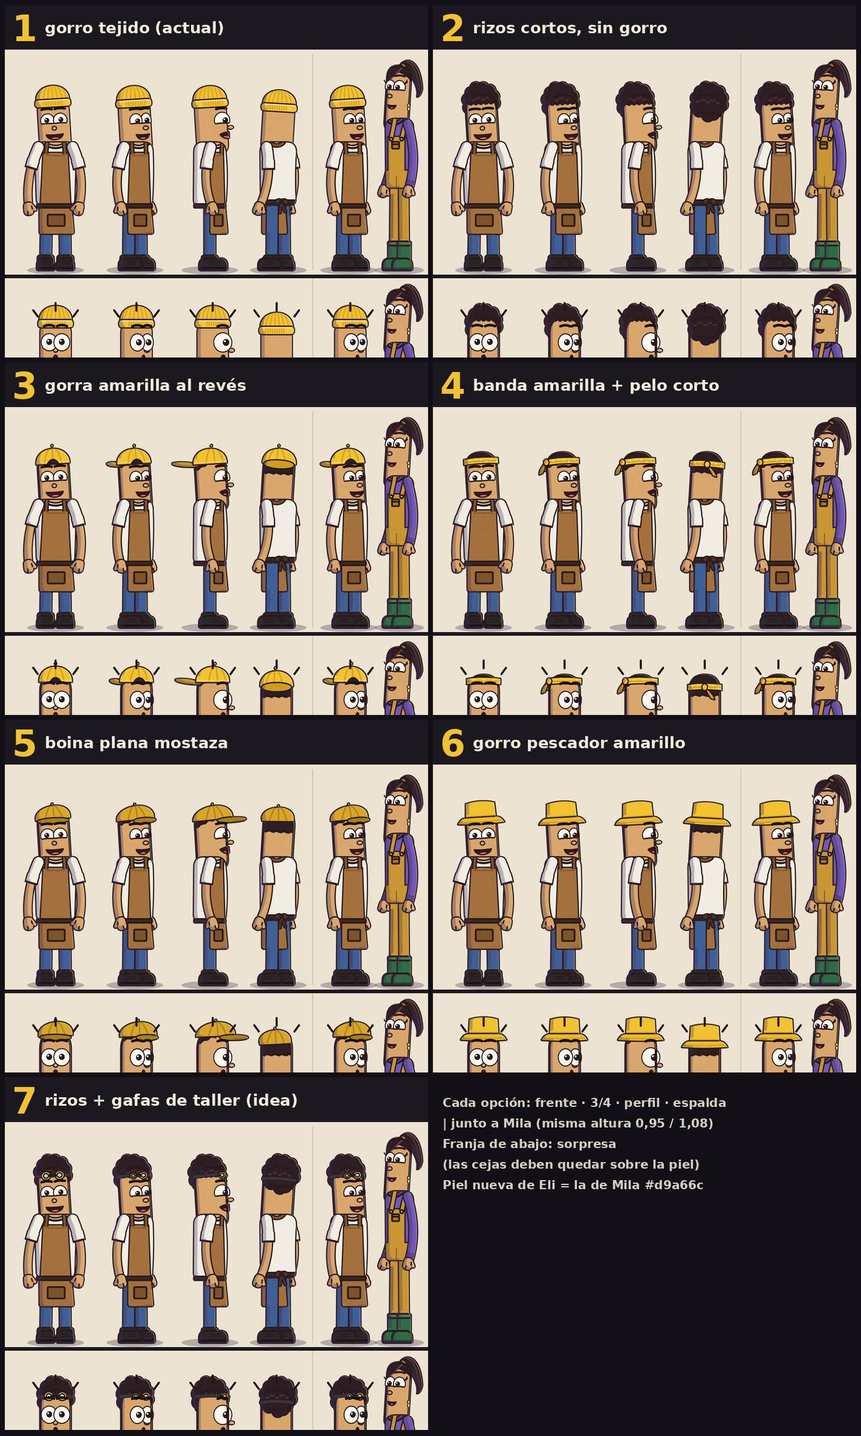
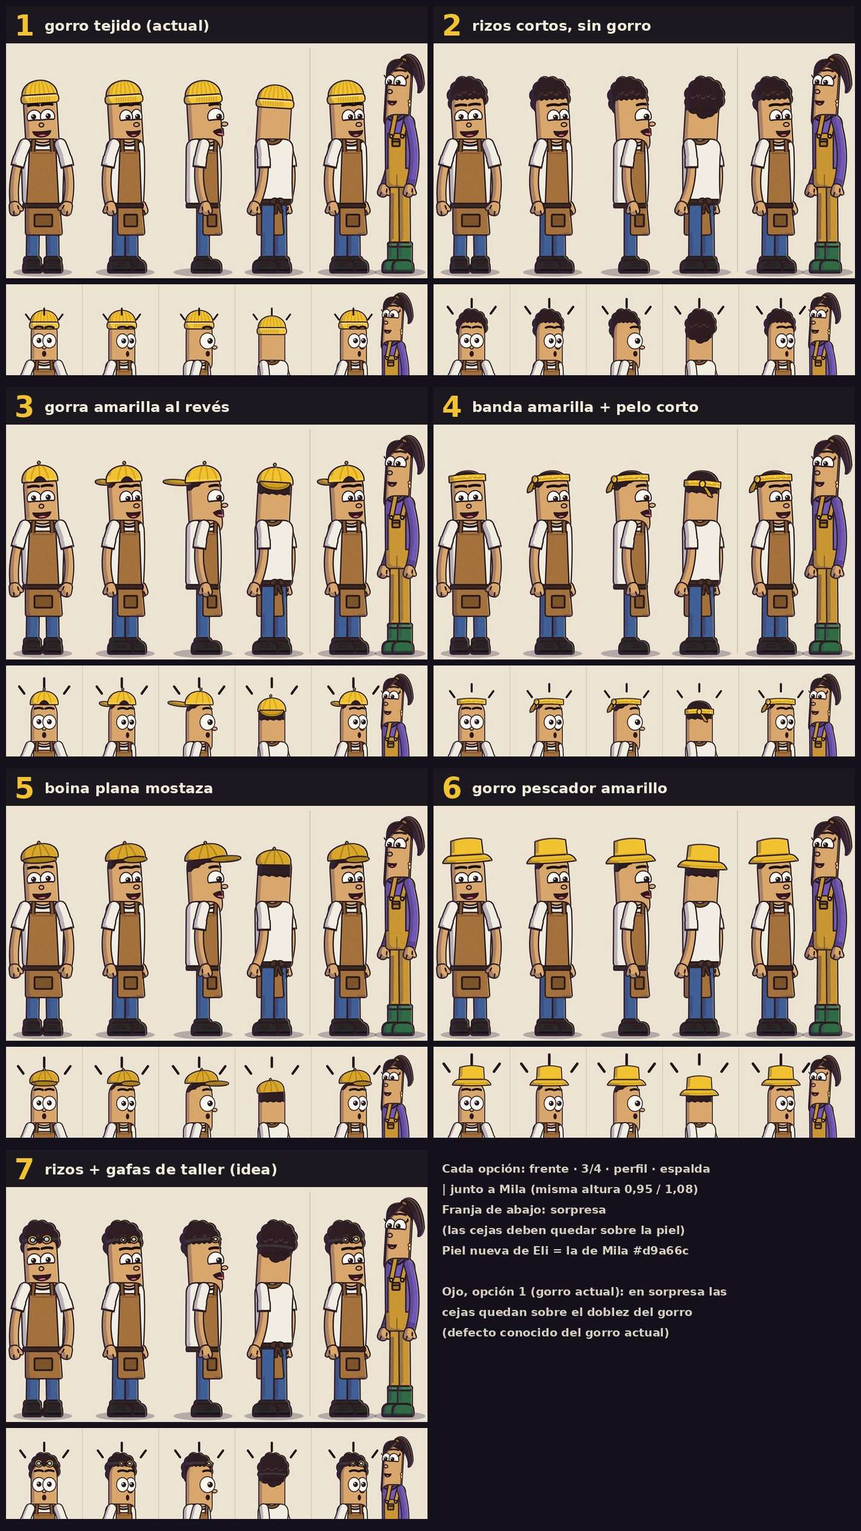
art: Guardian gate on Eli headwear options — brows clear of every brim/band/lens, no outline through the eyes, ticks outside the hats, sheet rebuilt
Options 2-7 (cast_alts.js ELI_HATS layers only): lift from the lowest ink edge, no head re-stroke over the face,
hairline clear of the brows, extraK per option, backwards-cap visor from behind, rigid goggles on a hit.
Lab: ?solo= / ?probe= / ?nohat=. New: build_eli_hat_sheet.sh, brow_clear_check.py (2-7 PASS; 1 = current beanie, known FAIL).

Claude-Session: https://claude.ai/code/session_01Xa8YPWmmU68CUYj3YXfuu9

diff --git a/newchannel/art/lib/cast_alts.js b/newchannel/art/lib/cast_alts.js
@@ -151,34 +151,41 @@
   // head layers { hat, hairBack, hairFront } in head units, defined for every view through H.fs / H.faceDir / H.back, with
   // the beanie's rules: a bob on t, a squash on H.hatHit, and a lift so the brows always sit on skin (never on a brim).
   const ELI_HAIR = '#2e1d22', CAP_Y = '#f2c230', CAP_D = '#cf9d1f', NEWS = '#d9a62a', NEWS_D = '#a8801c';
-  const hatLift = (H, bandBottom, max = 0.06) => (H.browTop != null ? K.clamp(bandBottom + 0.005 - H.browTop, 0, max) : 0);
-  const hatFrame = (c, H, pivotY, lift) => { const bob = Math.sin(H.t * 3.1 + 0.4) * 0.0022 - lift, sq = 1 - H.hatHit * 0.22;
-    c.save(); c.translate(0, pivotY + bob + H.hatHit * 0.008); c.scale(1 + H.hatHit * 0.08, sq); c.translate(0, -pivotY); };
+  // Guardian 2026-10-29: the lift is measured from the LOWEST ink edge of the headwear (brim / lens / band, not the crown
+  // seam) plus its stroke, a clear skin gap and the hit push-down, so the brows never touch a brim in surprise / anger.
+  const hatLift = (H, bottom, max = 0.1) => (H.browTop != null ? K.clamp(bottom + H.lw * 1.5 + 0.008 + H.hatHit * 0.008 - H.browTop, 0, max) : 0);
+  // no re-ink of the head outline over the hair (Guardian 2026-10-29): the hair is clipped to the head, so the outer half
+  // of the kit's outline stays; a full re-stroke cut through the googly eyes in 3/4 / profile and left a step at the brow
+  const hatFrame = (c, H, pivotY, lift, give = 1) => { const bob = Math.sin(H.t * 3.1 + 0.4) * 0.0022 - lift, sq = 1 - H.hatHit * 0.22 * give;
+    c.save(); c.translate(0, pivotY + bob + H.hatHit * 0.008); c.scale(1 + H.hatHit * 0.08 * give, sq); c.translate(0, -pivotY); };
   // short cropped hair (under caps / band): a cap of hair clipped to the head, hairline lower toward the back of the head
   function shortHair(c, H, line = 0.052) {
     const hw = H.hw, hh = H.hh, back = H.back ? 1 : 0;
     if (H.browTop != null && !back) line -= Math.max(0, (-hh + line) - (H.browTop - 0.012));   // the hairline always stops above the brows (surprise lifts them high)
     c.save(); h.headPath(c, C.SPECS.eli1.head); c.clip(); c.fillStyle = ELI_HAIR; c.beginPath();
-    const yAt = x => -hh + line + (back ? 0.05 : 0.035 * K.clamp(-H.faceDir * x / hw) * H.fs) + 0.004 * Math.sin(x * 160);
+    // Guardian 2026-10-29 (brow_clear_check): over the brows' span the hairline (wiggle + ink included) keeps a clear skin gap
+    const bs = !back && H.browTop != null && H._brows ? H._brows : null, bx0 = bs ? Math.min(...bs.map(g => Math.min(g[0], g[4]))) - 0.02 : 0, bx1 = bs ? Math.max(...bs.map(g => Math.max(g[0], g[4]))) + 0.02 : 0;
+    const yRaw = x => -hh + line + (back ? 0.05 : 0.035 * K.clamp(-H.faceDir * x / hw) * H.fs) + 0.004 * Math.sin(x * 160);
+    const yAt = x => (bs && x > bx0 && x < bx1 ? Math.min(yRaw(x), H.browTop - 0.014 - H.lw * 0.8) : yRaw(x));
     c.moveTo(-hw * 1.3, -hh - 0.1); c.lineTo(hw * 1.3, -hh - 0.1); for (let i = 0; i <= 16; i++) { const x = hw * 1.3 - i / 16 * hw * 2.6; c.lineTo(x, yAt(x)); } c.closePath(); c.fill();
     c.strokeStyle = INK; c.lineWidth = H.lw * 1.6; c.beginPath(); for (let i = 0; i <= 16; i++) { const x = -hw * 1.3 + i / 16 * hw * 2.6; i ? c.lineTo(x, yAt(x)) : c.moveTo(x, yAt(x)); } c.stroke();
-    c.restore(); outlineHead(c, H, C.SPECS.eli1);
+    c.restore();
   }
   // 2 · short curls: a low lobed crown of curls (no hat), the volume stays inside his 0.95 height budget
   function curlsBack(c, H) { const b = Math.sin(H.t * 3.0) * 0.0018 - H.hatHit * 0.006, cx = backX(H, 0.18);
     c.save(); c.translate(0, b); c.scale(1 + H.hatHit * 0.06, 1 - H.hatHit * 0.15);
     lobedShape(c, cx, -H.hh * 0.78, H.hw * 1.22, 12, 31, ELI_HAIR, H.lw, 0.3); c.restore(); }
-  function curlsFront(c, H) { const hw = H.hw, hh = H.hh, lift = hatLift(H, -hh + 0.072, 0.06);
+  function curlsFront(c, H) { const hw = H.hw, hh = H.hh, lift = hatLift(H, -hh + 0.064, 0.06);
     c.save(); h.headPath(c, C.SPECS.eli1.head); c.clip(); c.translate(0, -lift);
     c.fillStyle = ELI_HAIR; c.strokeStyle = INK; c.lineWidth = H.lw * 1.6; const off = H.faceDir * H.fs * hw * 0.25;
     c.beginPath(); c.moveTo(-hw * 1.3, -hh - 0.1); c.lineTo(hw * 1.3, -hh - 0.1); c.lineTo(hw * 1.3, -hh + 0.05);
     for (let i = 0; i <= 7; i++) { const x = hw * 1.15 - i / 7 * hw * 2.3 + off * 0.3, y = -hh + 0.05 + (H.back ? 0.04 : 0); c.quadraticCurveTo(x + hw * 0.16, y + 0.022, x, y); }
     c.lineTo(-hw * 1.3, -hh - 0.1); c.closePath(); c.fill(); c.stroke();
     c.strokeStyle = K.rgba('#5a3a3a', 0.8); c.lineWidth = H.lw; for (let i = 0; i < 6; i++) { const x = -hw * 0.8 + i * hw * 0.32 + off, y = -hh + 0.022 + (i % 2) * 0.01; c.beginPath(); c.arc(x, y, 0.009, 0.2, 2.6); c.stroke(); }
-    c.restore(); outlineHead(c, H, C.SPECS.eli1); }
+    c.restore(); }
   // 3 · backwards cap: a smooth six-panel crown, the snap opening over the forehead, the brim out the back
   function capBack(c, H) {
-    const hw = H.hw, hh = H.hh, band = -hh + 0.05, lift = hatLift(H, band);
+    const hw = H.hw, hh = H.hh, band = -hh + 0.05, lift = hatLift(H, band + 0.006);
     shortHairUnder(c, H);
     hatFrame(c, H, band, lift);
     const fs = H.fs, bk = -H.faceDir, crown = () => { c.beginPath(); c.moveTo(-hw * 1.08, band + 0.006); c.bezierCurveTo(-hw * 1.12, -hh - 0.045, hw * 1.12, -hh - 0.045, hw * 1.08, band + 0.006); c.closePath(); };
@@ -188,14 +195,15 @@
     for (const k of [-0.55, 0, 0.55]) { c.beginPath(); c.moveTo(k * hw + off, band); c.quadraticCurveTo(k * hw * 0.8 + off, -hh - 0.01, off * 0.5, -hh - 0.034); c.stroke(); }
     c.fillStyle = '#fff3c4'; c.globalAlpha = 0.45; c.fillRect(-hw * 1.2, band - 0.004, hw * 2.4, 0.004); c.restore();
     if (!H.back && fs < 0.7) { const ox = H.faceDir * fs * hw * 0.35; h.shape(c, () => { c.beginPath(); c.moveTo(ox - 0.026, band + 0.006); c.quadraticCurveTo(ox, band - 0.03, ox + 0.026, band + 0.006); c.closePath(); }, ELI_HAIR, H.lw); }
-    if (H.back) h.shape(c, () => { c.beginPath(); c.ellipse(0, band + 0.01, hw * 0.95, 0.02, 0, 0, K.TAU); }, CAP_D, H.lw);
+    if (H.back) { h.shape(c, () => { c.beginPath(); c.moveTo(-hw * 0.92, band + 0.004); c.ellipse(0, band + 0.004, hw * 0.92, 0.034, 0, Math.PI, 0, true); c.closePath(); }, CAP_D, H.lw);   // the visor points at us: it hangs over the nape
+      c.strokeStyle = K.rgba('#8a6512', 0.8); c.lineWidth = H.lw; c.beginPath(); c.ellipse(0, band + 0.004, hw * 0.8, 0.026, 0, 0.15, Math.PI - 0.15); c.stroke(); }
     c.fillStyle = CAP_D; c.strokeStyle = INK; c.lineWidth = H.lw; c.beginPath(); c.arc(off * 0.5, -hh - 0.036, 0.007, 0, K.TAU); c.fill(); c.stroke();
     c.restore();
   }
   function shortHairUnder(c, H) { shortHair(c, H, 0.058); }
   // 4 · yellow headband (bandana rolled into a band) over short hair, knot + tails at the back of the head
   function bandana(c, H) {
-    const hw = H.hw, hh = H.hh, y0 = -hh + 0.045, bh = 0.03, lift = hatLift(H, y0 + bh, 0.03);
+    const hw = H.hw, hh = H.hh, y0 = -hh + 0.045, bh = 0.03, lift = hatLift(H, y0 + bh);
     hatFrame(c, H, y0 + bh, lift);
     const bandP = () => { c.beginPath(); c.moveTo(-hw * 1.1, y0 + 0.004); c.quadraticCurveTo(0, y0 - 0.008, hw * 1.1, y0 + 0.004); c.lineTo(hw * 1.1, y0 + bh); c.quadraticCurveTo(0, y0 + bh - 0.01, -hw * 1.1, y0 + bh); c.closePath(); };
     const kx = H.back ? 0 : -H.faceDir * hw * 1.02, show = H.back || H.fs > 0.2;
@@ -210,7 +218,7 @@
   }
   // 5 · flat newsboy cap (mustard-yellow): a soft round crown pulled forward, short stiff brim over the face side
   function newsboy(c, H) {
-    const hw = H.hw, hh = H.hh, band = -hh + 0.056, lift = hatLift(H, band + 0.012);
+    const hw = H.hw, hh = H.hh, band = -hh + 0.056, lift = hatLift(H, band + 0.02);
     hatFrame(c, H, band, lift);
     const fs = H.fs, fd = H.faceDir, cx = fd * fs * hw * 0.25;
     const crown = () => { c.beginPath(); c.moveTo(-hw * 1.1, band + 0.004); c.bezierCurveTo(-hw * 1.35 + cx, -hh - 0.02, hw * 1.25 + cx, -hh - 0.05, hw * 1.12 + cx * 1.4, band - 0.004); c.closePath(); };
@@ -224,7 +232,7 @@
   }
   // 6 · bucket hat: a short crown and a soft brim sloping down all round (narrow in front so it never reaches the brows)
   function bucket(c, H) {
-    const hw = H.hw, hh = H.hh, band = -hh + 0.05, lift = hatLift(H, band + 0.014, 0.04);
+    const hw = H.hw, hh = H.hh, band = -hh + 0.05, lift = hatLift(H, band + 0.027);
     hatFrame(c, H, band, lift);
     const brim = () => { c.beginPath(); c.moveTo(-hw * 1.5, band + 0.022); c.quadraticCurveTo(-hw * 1.3, band - 0.006, -hw * 1.0, band - 0.006); c.lineTo(hw * 1.0, band - 0.006); c.quadraticCurveTo(hw * 1.3, band - 0.006, hw * 1.5, band + 0.022); c.quadraticCurveTo(0, band + 0.03, -hw * 1.5, band + 0.022); c.closePath(); };
     const crown = () => { c.beginPath(); c.moveTo(-hw * 0.98, band); c.lineTo(-hw * 0.92, -hh - 0.03); c.quadraticCurveTo(0, -hh - 0.05, hw * 0.92, -hh - 0.03); c.lineTo(hw * 0.98, band); c.closePath(); };
@@ -236,8 +244,8 @@
   }
   // 7 · (Claude's idea, workshop) short curls + yellow-rimmed workshop goggles pushed up on the forehead
   function goggles(c, H) {
-    const hw = H.hw, hh = H.hh, y = -hh + 0.06, lift = hatLift(H, y + 0.018, 0.03);
-    hatFrame(c, H, y, lift);
+    const hw = H.hw, hh = H.hh, y = -hh + 0.06, lift = hatLift(H, y + 0.02);
+    hatFrame(c, H, y, lift, 0.15);   // rigid goggles: they bounce on a hit, they do not squash into slits
     c.strokeStyle = INK; c.lineWidth = H.lw * 3.2; c.beginPath(); c.moveTo(-hw * 1.05, y + 0.002); c.quadraticCurveTo(0, y - 0.01, hw * 1.05, y + 0.002); c.stroke();
     c.strokeStyle = '#3a3436'; c.lineWidth = H.lw * 2.2; c.stroke();
     if (!H.back) { const fs = H.fs, fd = H.faceDir, sep = 0.036 * (1 - 0.45 * fs), cx = fd * fs * hw * 0.55;
@@ -249,14 +257,15 @@
       c.strokeStyle = INK; c.lineWidth = H.lw * 2.4; c.beginPath(); c.moveTo(cx - sep + 0.02, y); c.lineTo(cx + sep - 0.02, y); c.stroke(); }
     c.restore();
   }
+  // extraK (Guardian 2026-10-29): the surprise ticks / anger mark sit outside the headwear (they used to cross the crown)
   C.ELI_HATS = {
     1: { name: 'gorro tejido (actual)', layers: () => ({ hat: C.SPECS.eli1.hat }), cost: 'existe' },
-    2: { name: 'rizos cortos, sin gorro', layers: () => ({ hat: curlsFront, hairBack: curlsBack }), cost: 'nuevo (reutiliza el pelo lobulado de Alt 2)' },
-    3: { name: 'gorra al revés', layers: () => ({ hat: capBack }), cost: 'nuevo' },
-    4: { name: 'banda amarilla + pelo corto', layers: () => ({ hat: (c, H) => { shortHair(c, H); bandana(c, H); }, backHair: (c, H) => shortHair(c, H) }), cost: 'nuevo' },
-    5: { name: 'boina plana (newsboy) mostaza', layers: () => ({ hat: (c, H) => { shortHair(c, H, 0.062); newsboy(c, H); }, backHair: (c, H) => shortHair(c, H, 0.062) }), cost: 'nuevo' },
-    6: { name: 'gorro pescador amarillo', layers: () => ({ hat: (c, H) => { shortHair(c, H, 0.062); bucket(c, H); }, backHair: (c, H) => shortHair(c, H, 0.062) }), cost: 'nuevo' },
-    7: { name: 'rizos + gafas de taller', layers: () => ({ hat: (c, H) => { curlsFront(c, H); goggles(c, H); }, hairBack: curlsBack }), cost: 'nuevo (idea de Claude)' },
+    2: { name: 'rizos cortos, sin gorro', layers: () => ({ extraK: 1.3, hat: curlsFront, hairBack: curlsBack }), cost: 'nuevo (reutiliza el pelo lobulado de Alt 2)' },
+    3: { name: 'gorra al revés', layers: () => ({ extraK: 1.36, hat: capBack }), cost: 'nuevo' },
+    4: { name: 'banda amarilla + pelo corto', layers: () => ({ extraK: 1.18, hat: (c, H) => { shortHair(c, H); bandana(c, H); }, backHair: (c, H) => shortHair(c, H) }), cost: 'nuevo' },
+    5: { name: 'boina plana (newsboy) mostaza', layers: () => ({ extraK: 1.42, hat: (c, H) => { shortHair(c, H, 0.062); newsboy(c, H); }, backHair: (c, H) => shortHair(c, H, 0.062) }), cost: 'nuevo' },
+    6: { name: 'gorro pescador amarillo', layers: () => ({ extraK: 1.52, hat: (c, H) => { shortHair(c, H, 0.062); bucket(c, H); }, backHair: (c, H) => shortHair(c, H, 0.062) }), cost: 'nuevo' },
+    7: { name: 'rizos + gafas de taller', layers: () => ({ extraK: 1.3, hat: (c, H) => { curlsFront(c, H); goggles(c, H); }, hairBack: curlsBack }), cost: 'nuevo (idea de Claude)' },
   };
   // drop earrings: a stud on the head edge and a small gold drop hanging OUTSIDE the silhouette (reads as jewellery)
   function drops(color = GOLD, y = 0.04) {

diff --git a/newchannel/art/scenes/eli_hat_lab.js b/newchannel/art/scenes/eli_hat_lab.js
@@ -2,23 +2,31 @@
    beanie until the Producer picks. ?scene=eli_hat_lab&n=1..7[&expr=surprised&hit=1]: front, 3/4, profile, back, and a cell beside Mila. */
 (function (root) {
   const K = root.K, C = K.cast;
-  function variant(n) {
-    const id = 'eliHat' + n; if (C.SPECS[id]) return id; const b = C.SPECS.eli1, L = C.ELI_HATS[n].layers();
-    C.define(id, Object.assign({}, b, { hat: L.hat || null, hairBack: L.hairBack || null, hairFront: L.hairFront || null, backHair: L.backHair || null }));
+  // QC (Guardian 2026-10-29, brow_clear_check.py): &probe=1 paints the brows pure red, &nohat=1 drops every head layer
+  function variant(n, probe, nohat) {
+    const id = 'eliHat' + n + (probe ? 'p' : '') + (nohat ? 'x' : ''); if (C.SPECS[id]) return id; const b = C.SPECS.eli1, L = nohat ? {} : C.ELI_HATS[n].layers();
+    C.define(id, Object.assign({}, b, { hat: L.hat || null, hairBack: L.hairBack || null, hairFront: L.hairFront || null, backHair: L.backHair || null, extraK: L.extraK || b.extraK },
+      probe ? { face: Object.assign({}, b.face, { browColor: '#ff0000' }) } : {}));
     return id;
   }
   K.scene('eli_hat_lab', {
-    setup(ctx, o) { this.n = +(o.n || 1); this.id = variant(this.n); this.expr = o.expr || 'happy'; this.hit = +(o.hit || 0); },
+    setup(ctx, o) { this.n = +(o.n || 1); this.id = variant(this.n, +(o.probe || 0), +(o.nohat || 0)); this.expr = o.expr || 'happy'; this.hit = +(o.hit || 0); this.solo = o.solo != null ? +o.solo : null; },
     draw(ctx, t) {
       ctx.fillStyle = '#ece3d3'; ctx.fillRect(0, 0, K.W, K.H);
       const L = Object.assign({}, C.LIGHT.golden, { rim: '#fff4dc', rimA: 0.35 }), id = this.id, u = 860, o = { pose: 'stand', expr: this.expr, t: 0.6, light: L, shadow: 0.3, blink: 0, hatHit: this.hit };
-      C.draw(ctx, id, 230, 1040, u, Object.assign({}, o, { view: 'front' }));
-      C.draw(ctx, id, 590, 1040, u, Object.assign({}, o, { view: 'q', dir: 1, look: [0.6, 0] }));
-      C.draw(ctx, id, 930, 1040, u, Object.assign({}, o, { view: 'side', dir: 1, look: [1, 0] }));
-      C.draw(ctx, id, 1240, 1040, u, Object.assign({}, o, { view: 'backq', dir: -1 }));
+      // views: front, 3/4, profile, back 3/4, | beside Mila. ?solo=0..4 draws one view alone at the centre (the sheet's surprise
+      // strip uses it: the bigger surprise ticks of the tall hats would otherwise cross the neighbouring view)
+      const V = [[230, { view: 'front' }], [590, { view: 'q', dir: 1, look: [0.6, 0] }], [930, { view: 'side', dir: 1, look: [1, 0] }], [1240, { view: 'backq', dir: -1 }]];
+      const mila = (x) => C.draw(ctx, 'mila1', x, 1040, u, { view: 'q', dir: -1, pose: 'stand', expr: 'happy', t: 0.9, light: L, shadow: 0.3, blink: 0, look: [-0.7, -0.1] });
+      if (this.solo != null) {
+        if (this.solo < 4) C.draw(ctx, id, 960, 1040, u, Object.assign({}, o, V[this.solo][1]));
+        else { C.draw(ctx, id, 845, 1040, u, Object.assign({}, o, { view: 'q', dir: 1, look: [0.7, -0.1] })); mila(1075); }
+        return;
+      }
+      for (const [x, v] of V) C.draw(ctx, id, x, 1040, u, Object.assign({}, o, v));
       ctx.fillStyle = 'rgba(60,40,40,0.18)'; ctx.fillRect(1395, 60, 4, 980);
       C.draw(ctx, id, 1560, 1040, u, Object.assign({}, o, { view: 'q', dir: 1, look: [0.7, -0.1] }));
-      C.draw(ctx, 'mila1', 1790, 1040, u, { view: 'q', dir: -1, pose: 'stand', expr: 'happy', t: 0.9, light: L, shadow: 0.3, blink: 0, look: [-0.7, -0.1] });
+      mila(1790);
     },
     post() { return { grain: 0, vignette: 0, bloom: 0 }; },
   });

diff --git a/newchannel/art/render/brow_clear_check.py b/newchannel/art/render/brow_clear_check.py
@@ -1,0 +1,59 @@
+#!/usr/bin/env python3
+"""brow_clear_check.py OUTDIR [options...] -- Guardian check (2026-10-29): Eli's brows never touch the headwear.
+
+For each headwear option (eli_hat_lab n=1..7), expression (happy / surprised / furious), hat hit (0 / 1) and view
+(front, 3/4, profile, beside Mila), renders the lab twice with the brows painted pure red (&probe=1): once with the
+headwear and once without (&nohat=1). The ring 2-5 px around the red brows must show the same skin in both renders (ink outlines and rim light, which follow the silhouette, are ignored): any
+pixel the headwear (hat, brim, band, lens, hair) changes inside that ring = the brows touch it (FAIL).
+Writes OUTDIR/brow_clear.json and prints one line per option. Exit 1 if any option fails (except the listed --ref ones).
+"""
+import json, os, subprocess, sys
+from concurrent.futures import ThreadPoolExecutor
+import numpy as np
+from PIL import Image, ImageFilter
+
+HERE = os.path.dirname(os.path.abspath(__file__))
+out = sys.argv[1]; os.makedirs(out, exist_ok=True)
+opts = [int(a) for a in sys.argv[2:] if a.isdigit()] or list(range(1, 8))
+EXPRS, HITS, VIEWS = ["happy", "surprised", "furious"], [0, 1], [0, 1, 2, 4]
+
+
+def render(q, png):
+    if not os.path.exists(png):
+        subprocess.run(["node", os.path.join(HERE, "render.mjs"), "--scene", "eli_hat_lab", "--still", "1", "--png", png, "--query", q],
+                       check=True, stdout=subprocess.DEVNULL)
+    return png
+
+
+jobs = []
+for n in opts:
+    for e in EXPRS:
+        for h in HITS:
+            for v in VIEWS:
+                base = f"n={n}&expr={e}&hit={h}&solo={v}&probe=1"
+                jobs.append((n, e, h, v, (base, f"{out}/n{n}_{e}_h{h}_v{v}.png"), (base + "&nohat=1", f"{out}/n{n}_{e}_h{h}_v{v}_x.png")))
+with ThreadPoolExecutor(8) as ex:
+    list(ex.map(lambda j: (render(*j[4]), render(*j[5])), jobs))
+
+res, worst = {}, {}
+for n, e, h, v, (_, pa), (_, pb) in jobs:
+    a = np.asarray(Image.open(pa).convert("RGB")).astype(int); b = np.asarray(Image.open(pb).convert("RGB")).astype(int)
+    if v == 4: a, b = a[:, :960], b[:, :960]                       # beside Mila: Eli only
+    red = (b[..., 0] > 170) & (b[..., 1] < 90) & (b[..., 2] < 90)
+    ys, xs = np.where(red); y0, x0 = max(0, ys.min() - 20), max(0, xs.min() - 20)   # work on the brow box only
+    a, b, red = a[y0:ys.max() + 20, x0:xs.max() + 20], b[y0:ys.max() + 20, x0:xs.max() + 20], red[y0:ys.max() + 20, x0:xs.max() + 20]
+    m = Image.fromarray((red * 255).astype(np.uint8))
+    outer = np.asarray(m.filter(ImageFilter.MaxFilter(11))) > 0; inner = np.asarray(m.filter(ImageFilter.MaxFilter(5))) > 0
+    ring = outer & ~inner
+    skin = (b[..., 0] > 140) & (b[..., 0] - b[..., 2] > 40) & ~red     # forehead skin in the no-hat render
+    skin = np.asarray(Image.fromarray((skin * 255).astype(np.uint8)).filter(ImageFilter.MinFilter(9))) > 0   # 4 px off the head outline / rim light
+    diff = (np.abs(a - b).sum(2) > 60) & ring & skin
+    k = int(diff.sum()); res[f"n{n}_{e}_h{h}_v{v}"] = {"touch_px": k, "brow_px": int(red.sum())}
+    worst.setdefault(n, []).append((k, e, h, v))
+fails = []
+for n in opts:
+    bad = [w for w in worst[n] if w[0] > 4]
+    print(f"option {n}: {'FAIL' if bad else 'PASS'}" + (f"  {len(bad)} cases, worst {max(bad)}" if bad else ""))
+    if bad: fails.append(n)
+json.dump(res, open(f"{out}/brow_clear.json", "w"), indent=1)
+sys.exit(1 if fails else 0)

diff --git a/newchannel/art/characters/leo_mila/GUARDIAN_LOG.md b/newchannel/art/characters/leo_mila/GUARDIAN_LOG.md
@@ -69,3 +69,12 @@
 | 2026-10-29 | revisión de arte — B18, C2 colina | **sentados en el suelo: botas sobre el regazo** de frente / 3/4 | `sitGround` ponía el tobillo por encima de la cadera en cualquier vista | de frente y en 3/4: rodillas arriba, pies bajo la línea de la cadera; de espaldas igual que antes (`cast.js`) | arreglado (render del bloque pendiente) |
 | 2026-10-29 | revisión de arte — E1 G17 → G18 | **utilería que desaparece entre planos** (la bandera) | G18 no la dibujaba | G18 la lleva baja en la mano lejana, como termina G17 | arreglado (render del bloque pendiente) |
 | 2026-10-29 | revisión de arte — C2 D26 | faldón del delantal de Eli colgando bajo las botas sentado en el suelo | `apronSkirt` con `seated` sin caso `sitGround` | pendiente (P0-7 de ART_REVIEW_2026-10) | abierto |
+| 2026-10-29 | hoja de opciones de gorro de Eli (`eli_gorro_opciones_small.jpg`, 52e9b66) — opción 1 (gorro actual, referencia) | **cejas sobre el doblez del gorro** en sorpresa (y tocando el doblez en alegría / enojo: `brow_clear_check` 24/24 casos) | el gorro sube como máximo 0,034 y la sorpresa sube las cejas a 0,021 de la coronilla | propiedad del gorro actual: no se arregla en el laboratorio (el gorro sigue en el kit hasta que el Productor elija); anotado en la hoja | conocido (abierto) |
+| 2026-10-29 | hoja de gorros — opciones 3, 4, 5, 6, 7 | **cejas sobre el ala / banda / lentes** en sorpresa y enojo (5 boina, 6 pescador, 7 gafas: las cejas encima del ala o de los lentes; 3, 4 tocando el borde) | `hatLift` medía desde la costura de la copa, no desde el borde más bajo (ala, lente, banda), sin grosor de trazo ni el empuje del golpe; topes de 0,03-0,06 | `hatLift(H, bordeMásBajo)` + trazo + 0,008 de piel + golpe, tope 0,1, en cada opción (`cast_alts.js`, capas ELI_HATS) | arreglado |
+| 2026-10-29 | hoja de gorros — opciones 2-7 en 3/4 y perfil | **línea del contorno de la cabeza cruzando el ojo** (el ojo lejano en 3/4, el ojo del perfil) y un escalón en el contorno a la altura de la ceja | `outlineHead` re-trazaba la silueta entera encima de la cara; los ojos saltones sobresalen del contorno | sin re-trazo: el pelo se recorta a la cabeza y la mitad exterior del contorno del kit queda | arreglado |
+| 2026-10-29 | hoja de gorros — opciones 3, 4, 5, 6 | **nacimiento del pelo corto tocando las cejas** (dientes del flequillo a 0-4 px) en alegría / sorpresa | el tope de la línea del pelo ignoraba el zigzag, el trazo y la caída hacia la nuca en 3/4 | sobre el ancho de las cejas la línea queda a 0,014 + trazo sobre `browTop` | arreglado |
+| 2026-10-29 | hoja de gorros — opciones 2, 3, 5, 6, 7 (y 1) | **rayitas de sorpresa / marca de enojo encima del gorro o del pelo** (cruzaban la copa, el botón y los rizos; la marca de enojo se perdía en los rizos) | los extras se colocan por el radio de la cabeza y no saben del gorro | `extraK` por opción (1,18-1,52) para que los extras queden fuera; el laboratorio lo aplica; la franja de sorpresa de la hoja dibuja cada vista sola (`?solo=`) para que las rayitas grandes no crucen la vista vecina | arreglado (opción 1 sin tocar: referencia) |
+| 2026-10-29 | hoja de gorros — opción 3 de espaldas | la visera hacia atrás se leía como el hueco de la gorra (elipse oscura dentro de la copa) | elipse completa en la banda | de espaldas la visera apunta a cámara: media elipse que cuelga sobre la nuca + costura | arreglado |
+| 2026-10-29 | hoja de gorros — opción 7 con golpe | las gafas se aplastaban como el gorro (lentes convertidos en ranuras) | `hatFrame` aplicaba el aplastamiento de tela a un objeto rígido | `hatFrame(..., give)`: las gafas solo rebotan (give 0,15) | arreglado |
+| 2026-10-29 | hoja de gorros — armado | **punta de la coleta de Mila cortada** por el borde de la celda; la franja de sorpresa cortaba la boca abierta; «angry» del laboratorio no existe en el kit (caía en neutral y no probaba el enojo) | recorte sin margen; nombre de expresión inexistente | `art/render/build_eli_hat_sheet.sh` (no existía en git): 45 px sobre la coleta, franja hasta la boca; el enojo se prueba con `furious` | arreglado |
+| 2026-10-29 | QC | no había chequeo automático de cejas contra el gorro | — | `art/render/brow_clear_check.py` (cejas en rojo con / sin gorro, anillo de 2-5 px sobre piel; 7 opciones x 3 caras x golpe x 4 vistas); obligatorio para cualquier gorro nuevo (CHARACTERS.md §6e). Resultado final: 2-7 PASS, 1 FAIL (conocido) | nuevo control |

diff --git a/newchannel/art/characters/leo_mila/CHARACTERS.md b/newchannel/art/characters/leo_mila/CHARACTERS.md
@@ -320,6 +320,15 @@ Rules (kit `art/lib/cast.js` + `ep/001/animatic/anim.js`):
   E1 G17 flag swept Mila's face for 2 frames at 46.70 s and the key-frame audits + pop check did not see it). Rule for
   shot lists: a prop with a pole or cloth (flag, magnifier, bucket, sandwich, clipboard) is held in the hand **away** from
   the other character and its whole arc (up AND down) is rendered frame by frame before the shot is accepted.
+- **Brows never touch the headwear (Guardian, 2026-10-29).** `python3 art/render/brow_clear_check.py <scratch> [n...]`
+  renders `eli_hat_lab` for every headwear option x happy / surprised / furious x hat hit 0 / 1 x front / 3/4 / profile /
+  beside Mila, twice with the brows painted red (`&probe=1`, with and without the headwear `&nohat=1`), and fails any
+  case where the headwear or its hair changes the skin 2-5 px around the brows. Headwear rules: the lift is measured from
+  the lowest ink edge (brim / lens / band, + stroke + hit push-down), the hairline under a hat stays clear over the
+  brows' span, nothing re-strokes the head outline over the face (the googly eyes bulge past it in 3/4 and profile), and
+  a tall headwear sets `extraK` so the surprise ticks / anger mark sit outside it. Any new headwear, or a change to the
+  chosen one, passes this check before a sheet or a shot leaves the studio. Option 1 (the current beanie) fails it by
+  design of the beanie (its lift is capped at 0.034): known, logged, not to be shipped as «fixed».
 
 ## 7 · Never
 
